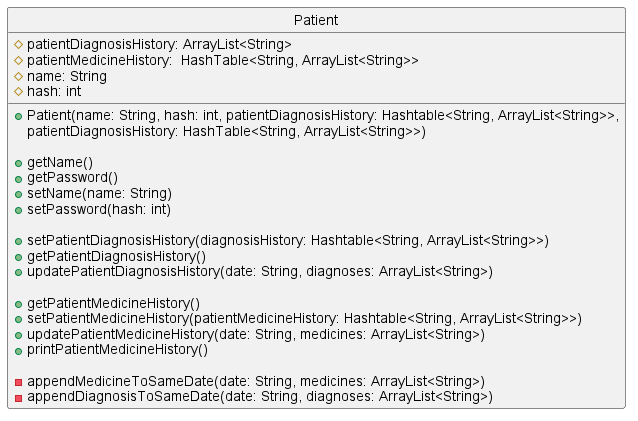
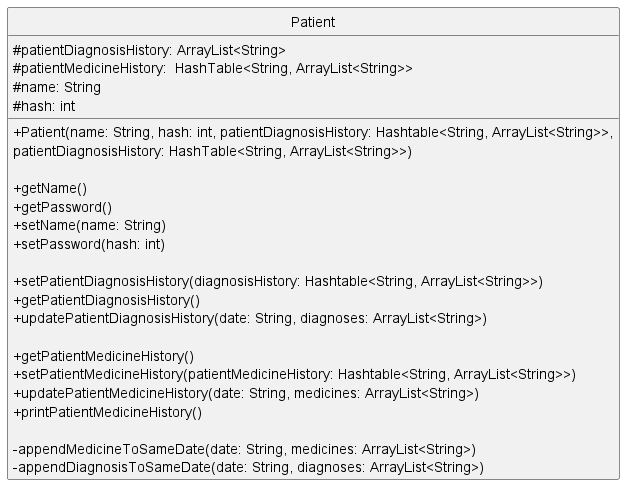
fix: update patient class diagram, update about us

diff --git a/docs/AboutUs.md b/docs/AboutUs.md
@@ -1,10 +1,10 @@
 # About us
 
-| Display                                             |       Name        |                Github Profile                 |                Portfolio                |
-|-----------------------------------------------------|:-----------------:|:---------------------------------------------:|:---------------------------------------:|
-| ![](https://via.placeholder.com/100.png?text=Photo) |    Jerald Chen    |    [Github](https://github.com/Jeraldchen)    |    [Portfolio](team%2Fjeraldchen.md)    |
-| ![](https://via.placeholder.com/100.png?text=Photo) |     Ryan Tan      | [Github](https://github.com/Thunderdragon221) | [Portfolio](team%2Fthunderdragon221.md) |
-| ![](https://via.placeholder.com/100.png?text=Photo) |    Gareth Tan     |     [Github](https://github.com/Geeeetyx)     |     [Portfolio](team%2Fgeeeetyx.md)     |
-| ![](https://via.placeholder.com/100.png?text=Photo) |    Tan Yi Zhe     |     [Github](https://github.com/tanyizhe)     |     [Portfolio](team%2Ftanyizhe.md)     |
-| ![](https://via.placeholder.com/100.png?text=Photo) | Brannon Aw Xu Wei |    [Github](https://github.com/Brennanzuz)    |   [Portfolio](team%2Fbrennanzuz.html)   |
+| Display                                             |       Name        |                Github Profile                 |                 Portfolio                 |
+|-----------------------------------------------------|:-----------------:|:---------------------------------------------:|:-----------------------------------------:|
+| ![](https://via.placeholder.com/100.png?text=Photo) |    Jerald Chen    |    [Github](https://github.com/Jeraldchen)    |    [Portfolio](team%2Fjeraldchen.html)    |
+| ![](https://via.placeholder.com/100.png?text=Photo) |     Ryan Tan      | [Github](https://github.com/Thunderdragon221) | [Portfolio](team%2Fthunderdragon221.html) |
+| ![](https://via.placeholder.com/100.png?text=Photo) |    Gareth Tan     |     [Github](https://github.com/Geeeetyx)     |     [Portfolio](team%2Fgeeeetyx.html)     |
+| ![](https://via.placeholder.com/100.png?text=Photo) |    Tan Yi Zhe     |     [Github](https://github.com/tanyizhe)     |     [Portfolio](team%2Ftanyizhe.html)     |
+| ![](https://via.placeholder.com/100.png?text=Photo) | Brannon Aw Xu Wei |    [Github](https://github.com/Brennanzuz)    |    [Portfolio](team%2Fbrennanzuz.html)    |
 
